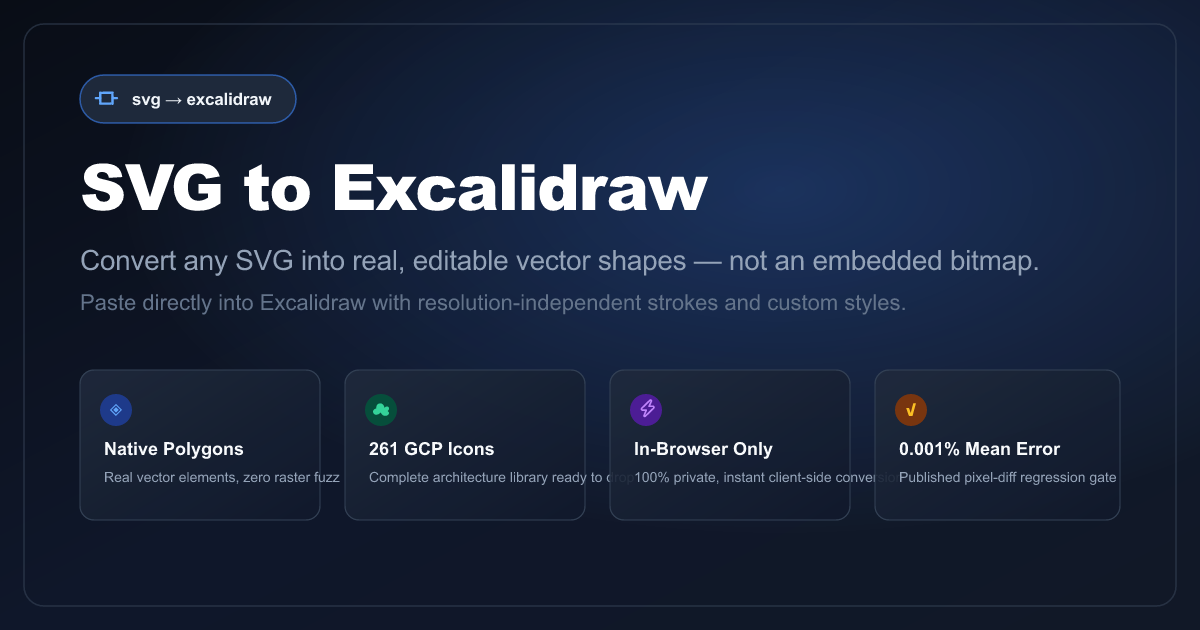
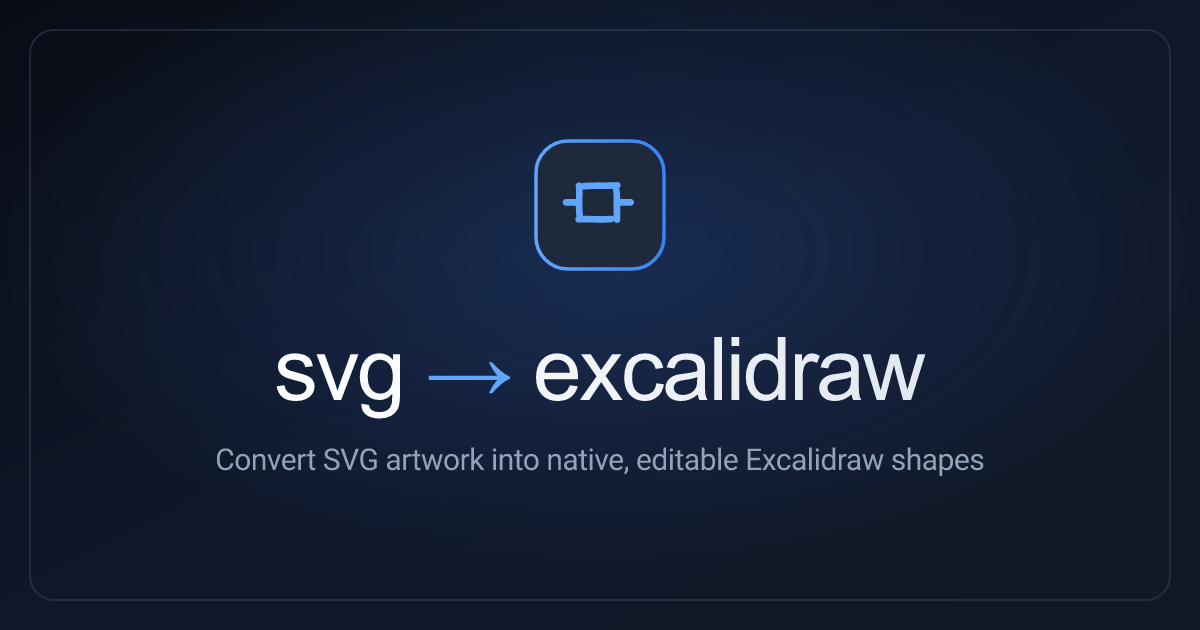
style(og): simplify OG image for far-away readability and update canonical domain tags

diff --git a/scripts/dev/gen-og.ts b/scripts/dev/gen-og.ts
@@ -13,13 +13,17 @@ const svg = `<svg xmlns="http://www.w3.org/2000/svg" viewBox="0 0 1200 630" widt
       <stop offset="50%" stop-color="#0f172a" />
       <stop offset="100%" stop-color="#111827" />
     </linearGradient>
-    <radialGradient id="glow" cx="65%" cy="30%" r="55%">
-      <stop offset="0%" stop-color="#3b82f6" stop-opacity="0.25" />
+    <radialGradient id="glow" cx="50%" cy="40%" r="50%">
+      <stop offset="0%" stop-color="#3b82f6" stop-opacity="0.2" />
       <stop offset="100%" stop-color="#3b82f6" stop-opacity="0" />
     </radialGradient>
-    <linearGradient id="cardGrad" x1="0%" y1="0%" x2="100%" y2="100%">
-      <stop offset="0%" stop-color="#1e293b" stop-opacity="0.9" />
-      <stop offset="100%" stop-color="#0f172a" stop-opacity="0.9" />
+    <linearGradient id="textGrad" x1="0%" y1="0%" x2="100%" y2="0%">
+      <stop offset="0%" stop-color="#ffffff" />
+      <stop offset="100%" stop-color="#e2e8f0" />
+    </linearGradient>
+    <linearGradient id="accentGrad" x1="0%" y1="0%" x2="100%" y2="0%">
+      <stop offset="0%" stop-color="#60a5fa" />
+      <stop offset="100%" stop-color="#3b82f6" />
     </linearGradient>
   </defs>
 
@@ -27,75 +31,34 @@ const svg = `<svg xmlns="http://www.w3.org/2000/svg" viewBox="0 0 1200 630" widt
   <rect width="1200" height="630" fill="url(#bg)" />
   <rect width="1200" height="630" fill="url(#glow)" />
 
-  <!-- Outer frame border -->
-  <rect x="24" y="24" width="1152" height="582" rx="20" fill="none" stroke="#334155" stroke-width="1.5" stroke-opacity="0.6" />
+  <!-- Subtle Outer Frame -->
+  <rect x="30" y="30" width="1140" height="570" rx="24" fill="none" stroke="#334155" stroke-width="2" stroke-opacity="0.5" />
 
-  <!-- Brand badge -->
-  <g transform="translate(80, 75)">
-    <rect width="216" height="48" rx="24" fill="#1e293b" stroke="#3b82f6" stroke-width="1.5" stroke-opacity="0.6" />
-    <!-- Diagram node logo mark -->
-    <g transform="translate(14, 11)">
-      <svg viewBox="0 0 24 24" width="26" height="26" fill="none" stroke="#60a5fa" stroke-width="2.2" stroke-linecap="round" stroke-linejoin="round">
-        <path d="M7 6.4C9.6 6 14.4 6.4 17.2 6.1" />
-        <path d="M16.9 7.6c.4 2.4 0 6.4.2 8.8" />
-        <path d="M15.4 16.2c-2.6.3-7.4-.1-9.8.1" />
-        <path d="M5.9 15.2c-.4-2.6.1-6.6-.2-9" />
-        <path d="M1.8 11.2h3.8M17.4 11.2h3.8" />
-      </svg>
-    </g>
-    <text x="52" y="30" fill="#f1f5f9" font-family="sans-serif" font-size="17" font-weight="600" letter-spacing="-0.2">svg → excalidraw</text>
-  </g>
-
-  <!-- Headline -->
-  <text x="80" y="210" fill="#ffffff" font-family="sans-serif" font-size="64" font-weight="800" letter-spacing="-1.5">
-    SVG to Excalidraw
-  </text>
-
-  <!-- Tagline -->
-  <text x="80" y="270" fill="#94a3b8" font-family="sans-serif" font-size="28" font-weight="400" letter-spacing="-0.3">
-    Convert any SVG into real, editable vector shapes — not an embedded bitmap.
-  </text>
-  <text x="80" y="310" fill="#64748b" font-family="sans-serif" font-size="22" font-weight="400">
-    Paste directly into Excalidraw with resolution-independent strokes and custom styles.
-  </text>
-
-  <!-- Features Grid -->
-  <g transform="translate(80, 370)">
-    <!-- Card 1 -->
-    <g transform="translate(0, 0)">
-      <rect width="240" height="150" rx="14" fill="url(#cardGrad)" stroke="#334155" stroke-width="1.2" />
-      <circle cx="36" cy="40" r="16" fill="#1e3a8a" />
-      <text x="36" y="46" fill="#60a5fa" font-family="sans-serif" font-size="18" text-anchor="middle" font-weight="bold">◈</text>
-      <text x="24" y="85" fill="#f8fafc" font-family="sans-serif" font-size="18" font-weight="700">Native Polygons</text>
-      <text x="24" y="112" fill="#94a3b8" font-family="sans-serif" font-size="14" font-weight="400">Real vector elements, zero raster fuzz</text>
+  <g transform="translate(600, 315)">
+    <!-- Centered Large Logo Badge -->
+    <g transform="translate(0, -110)">
+      <rect x="-64" y="-64" width="128" height="128" rx="32" fill="#1e293b" stroke="url(#accentGrad)" stroke-width="3.5" />
+      <!-- Big Diagram Node Logo -->
+      <g transform="translate(-40, -40)">
+        <svg viewBox="0 0 24 24" width="80" height="80" fill="none" stroke="#60a5fa" stroke-width="2" stroke-linecap="round" stroke-linejoin="round">
+          <path d="M7 6.4C9.6 6 14.4 6.4 17.2 6.1" />
+          <path d="M16.9 7.6c.4 2.4 0 6.4.2 8.8" />
+          <path d="M15.4 16.2c-2.6.3-7.4-.1-9.8.1" />
+          <path d="M5.9 15.2c-.4-2.6.1-6.6-.2-9" />
+          <path d="M1.8 11.2h3.8M17.4 11.2h3.8" />
+        </svg>
+      </g>
     </g>
 
-    <!-- Card 2 -->
-    <g transform="translate(265, 0)">
-      <rect width="240" height="150" rx="14" fill="url(#cardGrad)" stroke="#334155" stroke-width="1.2" />
-      <circle cx="36" cy="40" r="16" fill="#064e3b" />
-      <text x="36" y="46" fill="#34d399" font-family="sans-serif" font-size="18" text-anchor="middle" font-weight="bold">☁</text>
-      <text x="24" y="85" fill="#f8fafc" font-family="sans-serif" font-size="18" font-weight="700">261 GCP Icons</text>
-      <text x="24" y="112" fill="#94a3b8" font-family="sans-serif" font-size="14" font-weight="400">Complete architecture library ready to drop</text>
-    </g>
+    <!-- Giant Main Title -->
+    <text x="0" y="85" fill="url(#textGrad)" font-family="system-ui, -apple-system, BlinkMacSystemFont, 'Segoe UI', Roboto, sans-serif" font-size="88" font-weight="900" text-anchor="middle" letter-spacing="-2.5">
+      svg <tspan fill="#60a5fa">→</tspan> excalidraw
+    </text>
 
-    <!-- Card 3 -->
-    <g transform="translate(530, 0)">
-      <rect width="240" height="150" rx="14" fill="url(#cardGrad)" stroke="#334155" stroke-width="1.2" />
-      <circle cx="36" cy="40" r="16" fill="#4c1d95" />
-      <text x="36" y="46" fill="#c084fc" font-family="sans-serif" font-size="18" text-anchor="middle" font-weight="bold">⚡</text>
-      <text x="24" y="85" fill="#f8fafc" font-family="sans-serif" font-size="18" font-weight="700">In-Browser Only</text>
-      <text x="24" y="112" fill="#94a3b8" font-family="sans-serif" font-size="14" font-weight="400">100% private, instant client-side conversion</text>
-    </g>
-
-    <!-- Card 4 -->
-    <g transform="translate(795, 0)">
-      <rect width="245" height="150" rx="14" fill="url(#cardGrad)" stroke="#334155" stroke-width="1.2" />
-      <circle cx="36" cy="40" r="16" fill="#78350f" />
-      <text x="36" y="46" fill="#fbbf24" font-family="sans-serif" font-size="18" text-anchor="middle" font-weight="bold">✓</text>
-      <text x="24" y="85" fill="#f8fafc" font-family="sans-serif" font-size="18" font-weight="700">0.001% Mean Error</text>
-      <text x="24" y="112" fill="#94a3b8" font-family="sans-serif" font-size="14" font-weight="400">Published pixel-diff regression gate</text>
-    </g>
+    <!-- Clear, bold subtitle -->
+    <text x="0" y="155" fill="#94a3b8" font-family="system-ui, -apple-system, BlinkMacSystemFont, 'Segoe UI', Roboto, sans-serif" font-size="30" font-weight="500" text-anchor="middle" letter-spacing="-0.5">
+      Convert SVG artwork into native, editable Excalidraw shapes
+    </text>
   </g>
 </svg>`;
 

diff --git a/index.html b/index.html
@@ -15,18 +15,18 @@
     <meta name="keywords" content="svg to excalidraw, excalidraw svg converter, convert svg to excalidraw, gcp excalidraw icons, google cloud architecture icons, excalidraw library, editable excalidraw vector shapes, excalidrawlib" />
     <meta name="author" content="Rolando Romero" />
     <meta name="robots" content="index, follow" />
-    <!-- GitHub Pages project page. Must match `base` in vite.config.ts. -->
-    <link rel="canonical" href="https://rolandostar.github.io/excalidraw-svg/" />
+    <!-- Primary site domain -->
+    <link rel="canonical" href="https://rolandostar.com/excalidraw-svg/" />
     <link rel="manifest" href="./site.webmanifest" />
     <meta name="theme-color" content="#0f172a" media="(prefers-color-scheme: dark)" />
     <meta name="theme-color" content="#ffffff" media="(prefers-color-scheme: light)" />
 
     <meta property="og:type" content="website" />
     <meta property="og:site_name" content="SVG to Excalidraw" />
-    <meta property="og:url" content="https://rolandostar.github.io/excalidraw-svg/" />
+    <meta property="og:url" content="https://rolandostar.com/excalidraw-svg/" />
     <meta property="og:title" content="SVG to Excalidraw" />
     <meta property="og:description" content="Real editable vector shapes, not an embedded image. Runs in your browser, with 261 Google Cloud icons ready to drop onto a canvas." />
-    <meta property="og:image" content="https://rolandostar.github.io/excalidraw-svg/og.png" />
+    <meta property="og:image" content="https://rolandostar.com/excalidraw-svg/og.png" />
     <meta property="og:image:width" content="1200" />
     <meta property="og:image:height" content="630" />
     <meta property="og:image:alt" content="SVG to Excalidraw — convert any SVG to editable Excalidraw shapes" />
@@ -34,14 +34,14 @@
     <meta name="twitter:card" content="summary_large_image" />
     <meta name="twitter:title" content="SVG to Excalidraw — convert any SVG to editable Excalidraw shapes" />
     <meta name="twitter:description" content="Real editable vector shapes, not an embedded image. Runs in your browser, with 261 Google Cloud icons ready to drop onto a canvas." />
-    <meta name="twitter:image" content="https://rolandostar.github.io/excalidraw-svg/og.png" />
+    <meta name="twitter:image" content="https://rolandostar.com/excalidraw-svg/og.png" />
 
     <script type="application/ld+json">
       {
         "@context": "https://schema.org",
         "@type": "WebApplication",
         "name": "SVG to Excalidraw",
-        "url": "https://rolandostar.github.io/excalidraw-svg/",
+        "url": "https://rolandostar.com/excalidraw-svg/",
         "description": "Convert any SVG vector file into real, editable Excalidraw shapes. Includes 261 Google Cloud architecture icons.",
         "applicationCategory": "DesignApplication",
         "operatingSystem": "All",

diff --git a/scripts/lib/claims.ts b/scripts/lib/claims.ts
@@ -37,7 +37,7 @@ export function renderClaimsBlock(headline: EvidenceHeadline): string {
     `That is every set: ${sets}. ${icons.perfect} of the ${icons.total} icons are a`,
     'pixel-exact match; the rest differ by a few pixels along a curved edge, and all',
     `${icons.imperfect} are published in full on the`,
-    '[methodology page](https://rolandostar.github.io/excalidraw-svg/methodology).',
+    '[methodology page](https://rolandostar.com/excalidraw-svg/methodology).',
     '',
     CLAIMS_END,
   ].join('\n');

diff --git a/README.md b/README.md
@@ -7,8 +7,8 @@ and resolution-independent.
 ![SVG to Excalidraw Demo](./public/demo.gif)
 
 <p align="center">
-  <a href="https://rolandostar.github.io/excalidraw-svg/" target="_blank">
-    <img src="./public/launch-app.svg" alt="Open the Web App — rolandostar.github.io/excalidraw-svg" height="52" />
+  <a href="https://rolandostar.com/excalidraw-svg/">
+    <img src="./public/launch-app.svg" alt="Access Web App — rolandostar.com/excalidraw-svg" height="52" />
   </a>
 </p>
 
@@ -55,7 +55,7 @@ read a failure.
 That is every set: 216 legacy-gcp, 26 category-icons, 19 unique-icons. 253 of the 261 icons are a
 pixel-exact match; the rest differ by a few pixels along a curved edge, and all
 8 are published in full on the
-[methodology page](https://rolandostar.github.io/excalidraw-svg/methodology).
+[methodology page](https://rolandostar.com/excalidraw-svg/methodology).
 
 <!-- claims:end -->
 
@@ -160,8 +160,8 @@ see [Architecture](../../wiki/Architecture).
 Pushes to `main` build the site and publish it to GitHub Pages via
 `.github/workflows/deploy.yml`. Wiki- and markdown-only commits are skipped.
 
-The site lives at **https://rolandostar.github.io/excalidraw-svg/** — a Pages
-*project* page, so it is served from a sub-path, not the domain root.
+The site lives at **https://rolandostar.com/excalidraw-svg/** — served via
+GitHub Pages under a custom domain.
 
 That sub-path is `base` in `vite.config.ts`, and it is named after the
 repository. **Rename the repo and it has to change with it**, in four places:
